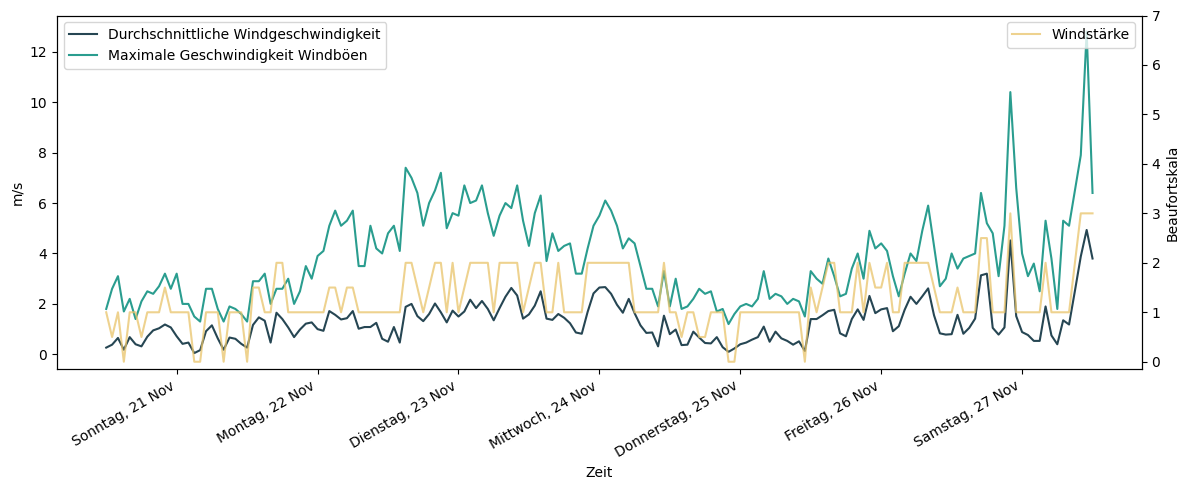
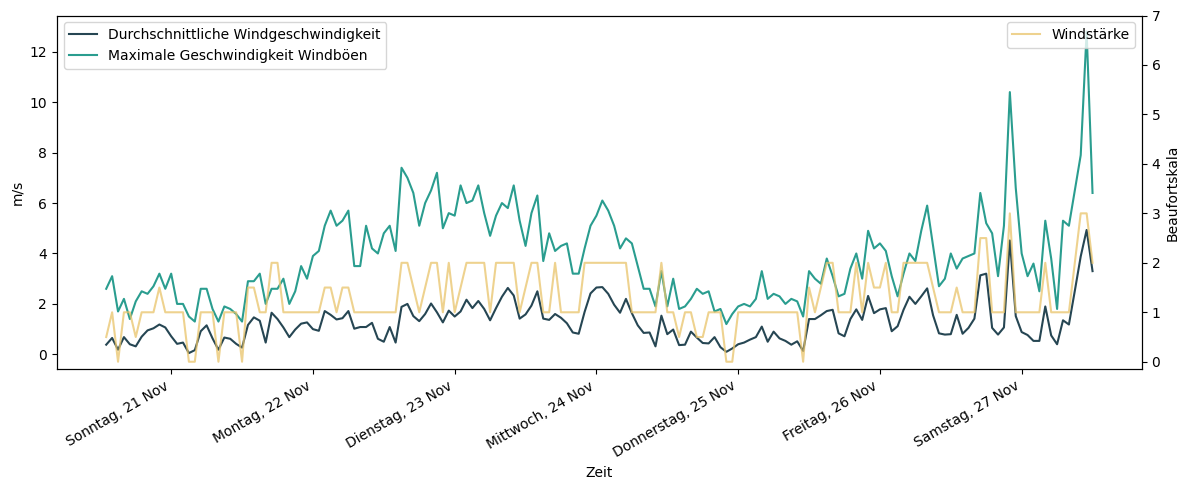
Added: 3 plots

diff --git a/weather_app/weatherimport.py b/weather_app/weatherimport.py
@@ -167,41 +167,48 @@ def get_measurements(measurements : list(Measurement), station : str, time_range
 
   return df
 
+# generate plots 
+
 # TODO maybe move this to a different file.
+
+# Colors from https://coolors.co/264653-2a9d8f-e9c46a-f4a261-e76f51
+colors = {
+  "blue":      "#264653",
+  "turquoise": "#2A9D8F",
+  "yellow":    "#E9C46A",
+  "orange":    "#F4A261",
+  "red":       "#E76F51"
+}
+
 wind_measurements = [Measurement.Wind_speed_avg_10min,
                      Measurement.Wind_gust_max_10min,
                      Measurement.Wind_force_avg_10min,
                      Measurement.Wind_direction] # currently not plotted, since plotting is not that easy and therefore out of scope
 
-#generate chart
-def generate_today_graphs():
-  logging.info("#generate_today_graphs()")
+def get_graph_location():
+  return str(Path(os.path.dirname(os.path.realpath(__file__)))) + "/static/Images/graphs"
 
-  # wind
-  # temperature
-  # water
-  return schedule.CancelJob
+def generate_wind_graph(station, type):
+  if type != "history" and type != "today":
+    raise Exception(f"Unknown type: {type}")
 
+  wind = get_measurements(wind_measurements, station, "7d" if type == "history" else "1d")
+  if type == "history":
+    # aggregate window every 1 hour
+    wind = wind.resample('H', on='time').agg(
+      { Measurement.Wind_speed_avg_10min.value:'mean',
+        Measurement.Wind_gust_max_10min .value:'max',
+        Measurement.Wind_force_avg_10min.value:'median',
+        Measurement.Wind_direction      .value:'median'})
 
-def generate_last_7_days_graphs():
-  logging.info("#generate_last_7_days_graphs()")
-  # wind
-  wind_tiefenbrunnen = get_measurements(wind_measurements, "tiefenbrunnen", "7d")
-  # aggregate window every 1 hour
-  wind_tiefenbrunnen = wind_tiefenbrunnen.resample('H', on='time').agg(
-    { Measurement.Wind_speed_avg_10min.value:'mean',
-      Measurement.Wind_gust_max_10min .value:'max',
-      Measurement.Wind_force_avg_10min.value:'median',
-      Measurement.Wind_direction      .value:'median'})
-
-  wind_tiefenbrunnen["time"] = wind_tiefenbrunnen.index
-  wind_tiefenbrunnen = wind_tiefenbrunnen.reset_index(drop = True)
+    wind["time"] = wind.index
+    wind = wind.reset_index(drop = True)
 
   fig, ax1 = plt.subplots(figsize=(12,5))
 
   # first y-Axis
-  ax1.plot(wind_tiefenbrunnen['time'], wind_tiefenbrunnen[Measurement.Wind_speed_avg_10min.value], color="#264653") # Colors from https://coolors.co/264653-2a9d8f-e9c46a-f4a261-e76f51
-  ax1.plot(wind_tiefenbrunnen['time'], wind_tiefenbrunnen[Measurement.Wind_gust_max_10min .value], color="#2A9D8F")
+  ax1.plot(wind['time'], wind[Measurement.Wind_speed_avg_10min.value], color=colors["blue"])
+  ax1.plot(wind['time'], wind[Measurement.Wind_gust_max_10min .value], color=colors["turquoise"])
   # expand the limits to make sure y=0, y=10 are on the axis
   bottom, top = ax1.get_ylim()
   ax1.set_ylim(bottom if bottom < 0 else 0, top if top > 10 else 10)
@@ -210,7 +217,7 @@ def generate_last_7_days_graphs():
 
   # second y-Axis
   ax2 = ax1.twinx()
-  ax2.plot(wind_tiefenbrunnen['time'], wind_tiefenbrunnen[Measurement.Wind_force_avg_10min.value], color="#E9C46A", alpha=0.75)
+  ax2.plot(wind['time'], wind[Measurement.Wind_force_avg_10min.value], color=colors["yellow"], alpha=0.75)
   # expand the limits to make sure y=0, y=7 are on the axis
   bottom, top = ax2.get_ylim()
   ax2.set_ylim(bottom if bottom < 0 else 0, top if top > 7 else 7)
@@ -219,14 +226,33 @@ def generate_last_7_days_graphs():
 
   # x-Axis
   ax1.set_xlabel('Zeit')
-  ax1.xaxis.set_major_formatter(mdates.DateFormatter('%A, %d %b'))
+  if type == "history":
+    ax1.xaxis.set_major_formatter(mdates.DateFormatter('%A, %d %b'))
+  else:
+    ax1.xaxis.set_major_formatter(mdates.DateFormatter('%H:%M'))
+
   for label in ax1.get_xticklabels(which='major'):
       label.set(rotation=30, horizontalalignment='right')
 
   fig.tight_layout()
-  fig.savefig(str(Path(os.path.dirname(os.path.realpath(__file__)))) + "/static/Images/graphs/tiefenbrunnen_wind_history.png", bbox_inches='tight')
+  fig.savefig(get_graph_location() + f"/{station}_wind_{type}.png", bbox_inches='tight')
   plt.close(fig)
 
+
+def generate_today_graphs():
+  logging.info("#generate_today_graphs()")
+  # wind
+  generate_wind_graph("tiefenbrunnen", "today")
+  generate_wind_graph("mythenquai", "today")
+  # temperature
+  # water
+  return schedule.CancelJob
+
+def generate_last_7_days_graphs():
+  logging.info("#generate_last_7_days_graphs()")
+  # wind
+  generate_wind_graph("tiefenbrunnen", "history")
+  generate_wind_graph("mythenquai", "history")
   # temperature
   # water
   pass

diff --git a/weather_app/main.py b/weather_app/main.py
@@ -127,6 +127,8 @@ if __name__ == "__main__":
     logging.info("Programm has started")
 
     weatherimport.init()
+    weatherimport.generate_today_graphs()
+    weatherimport.generate_last_7_days_graphs()
 
     schedule.every(5).seconds.do(weatherimport.generate_last_7_days_graphs)
 
